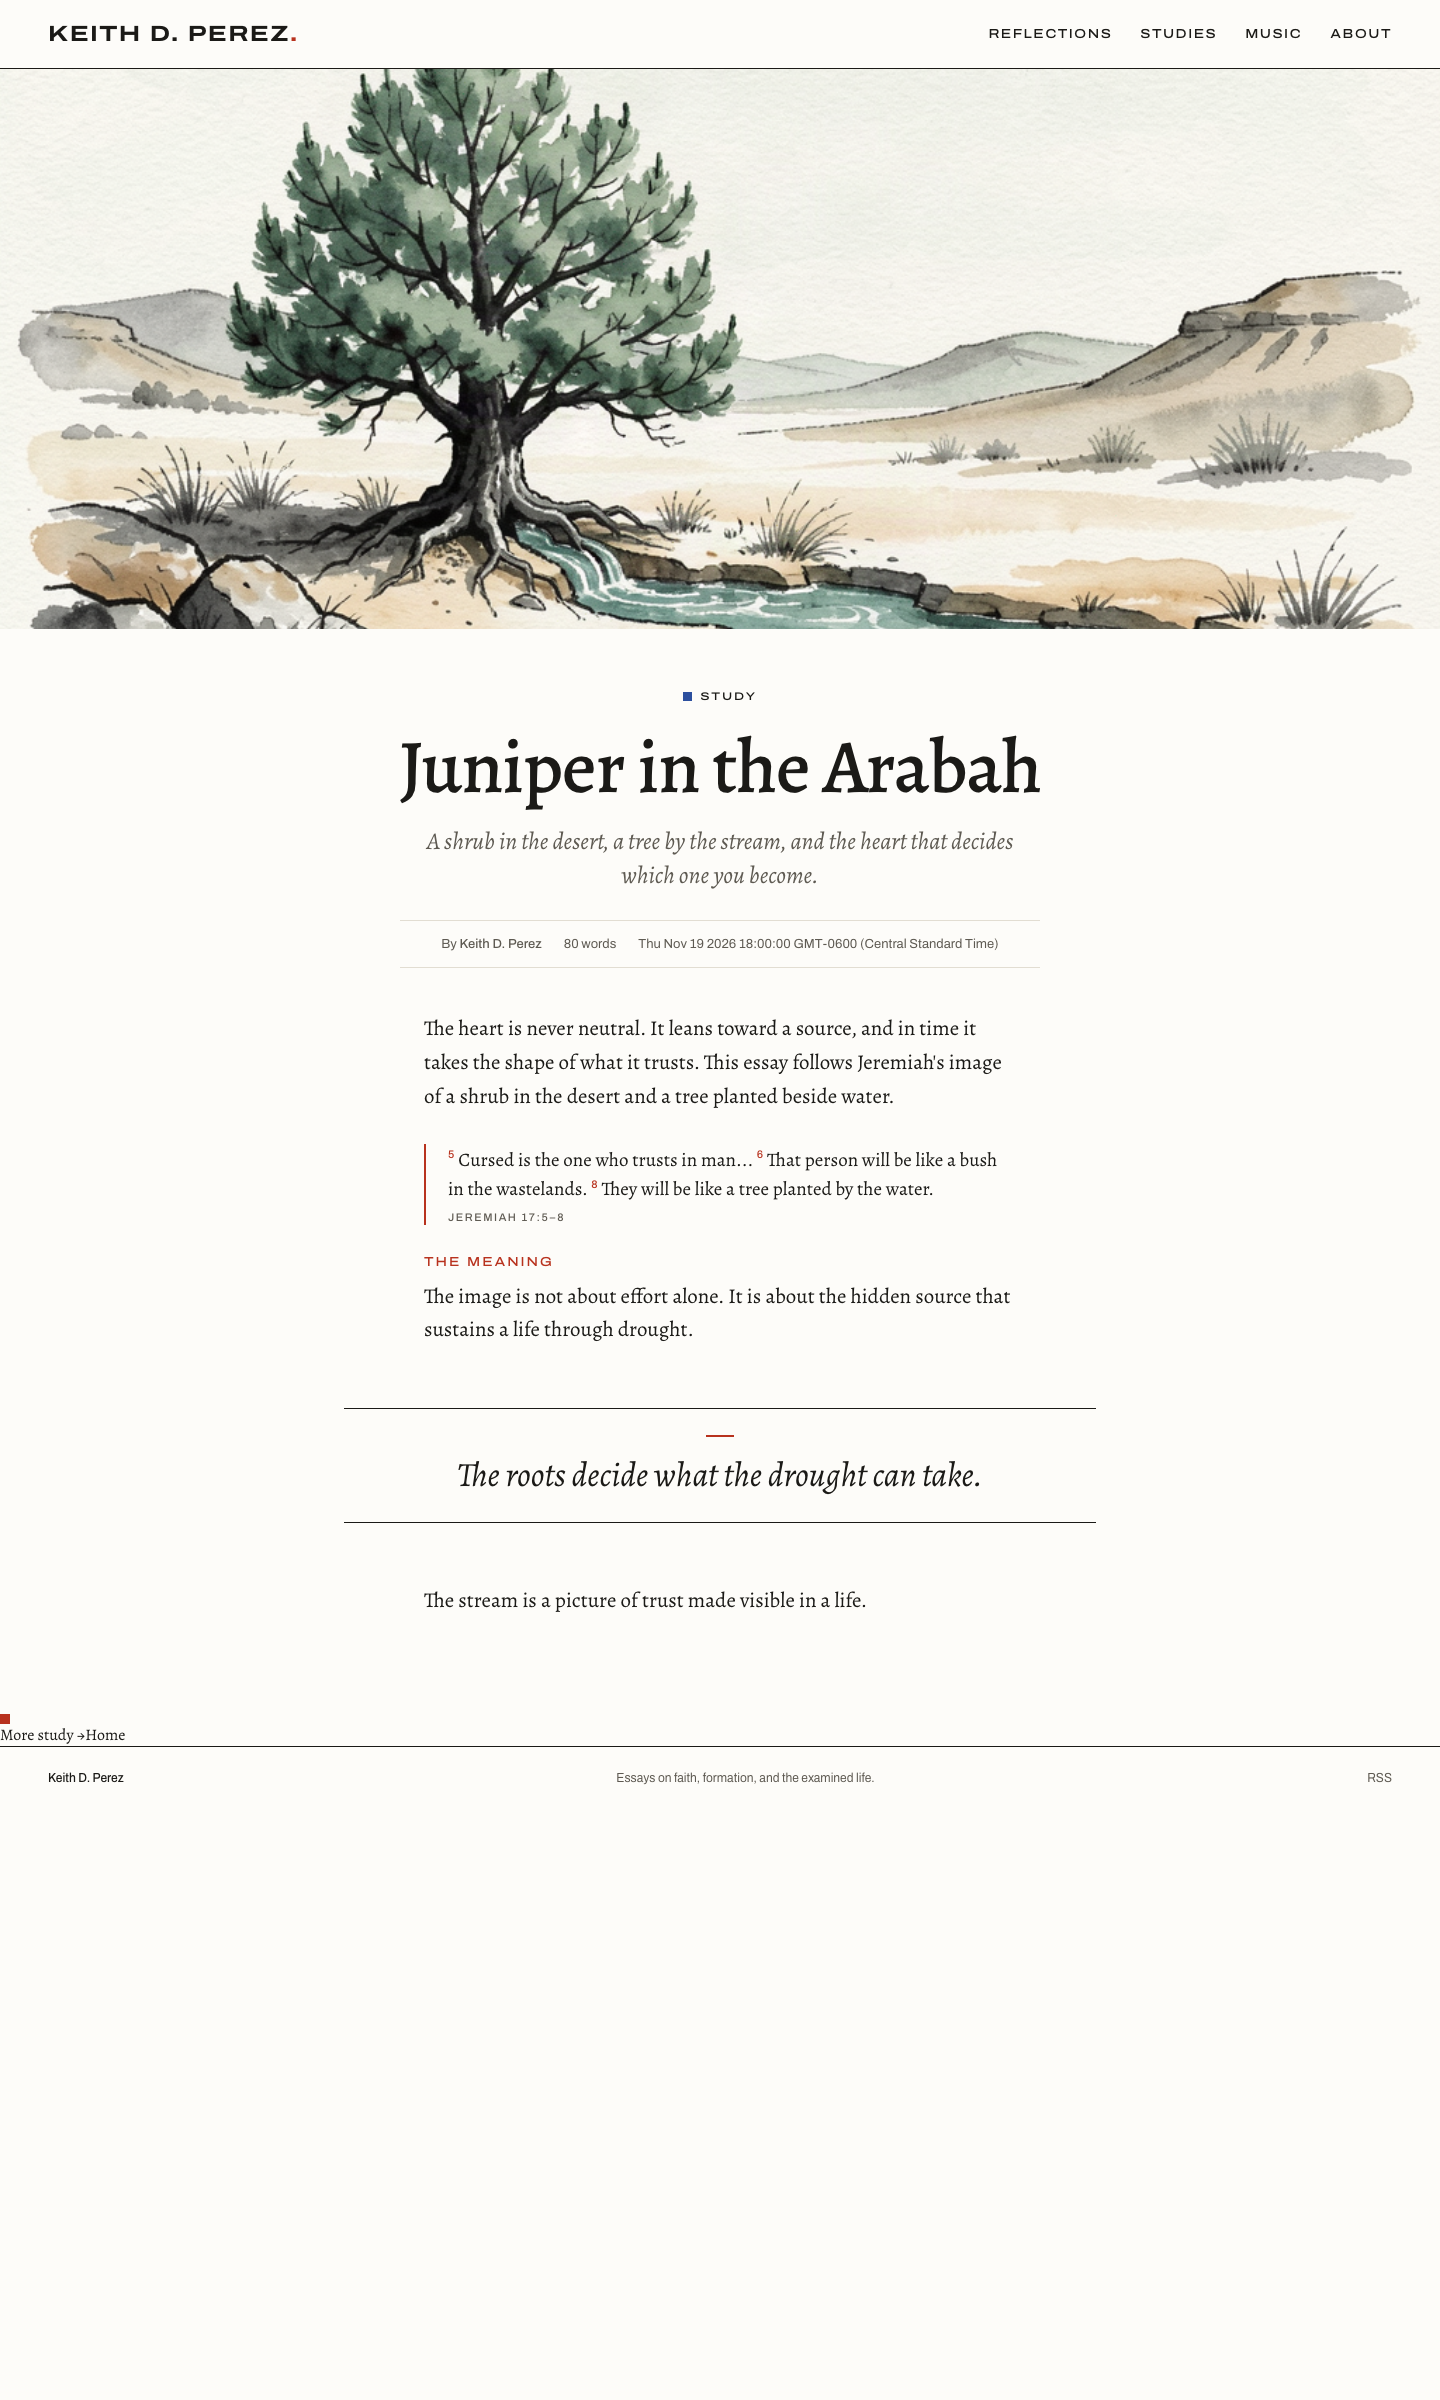
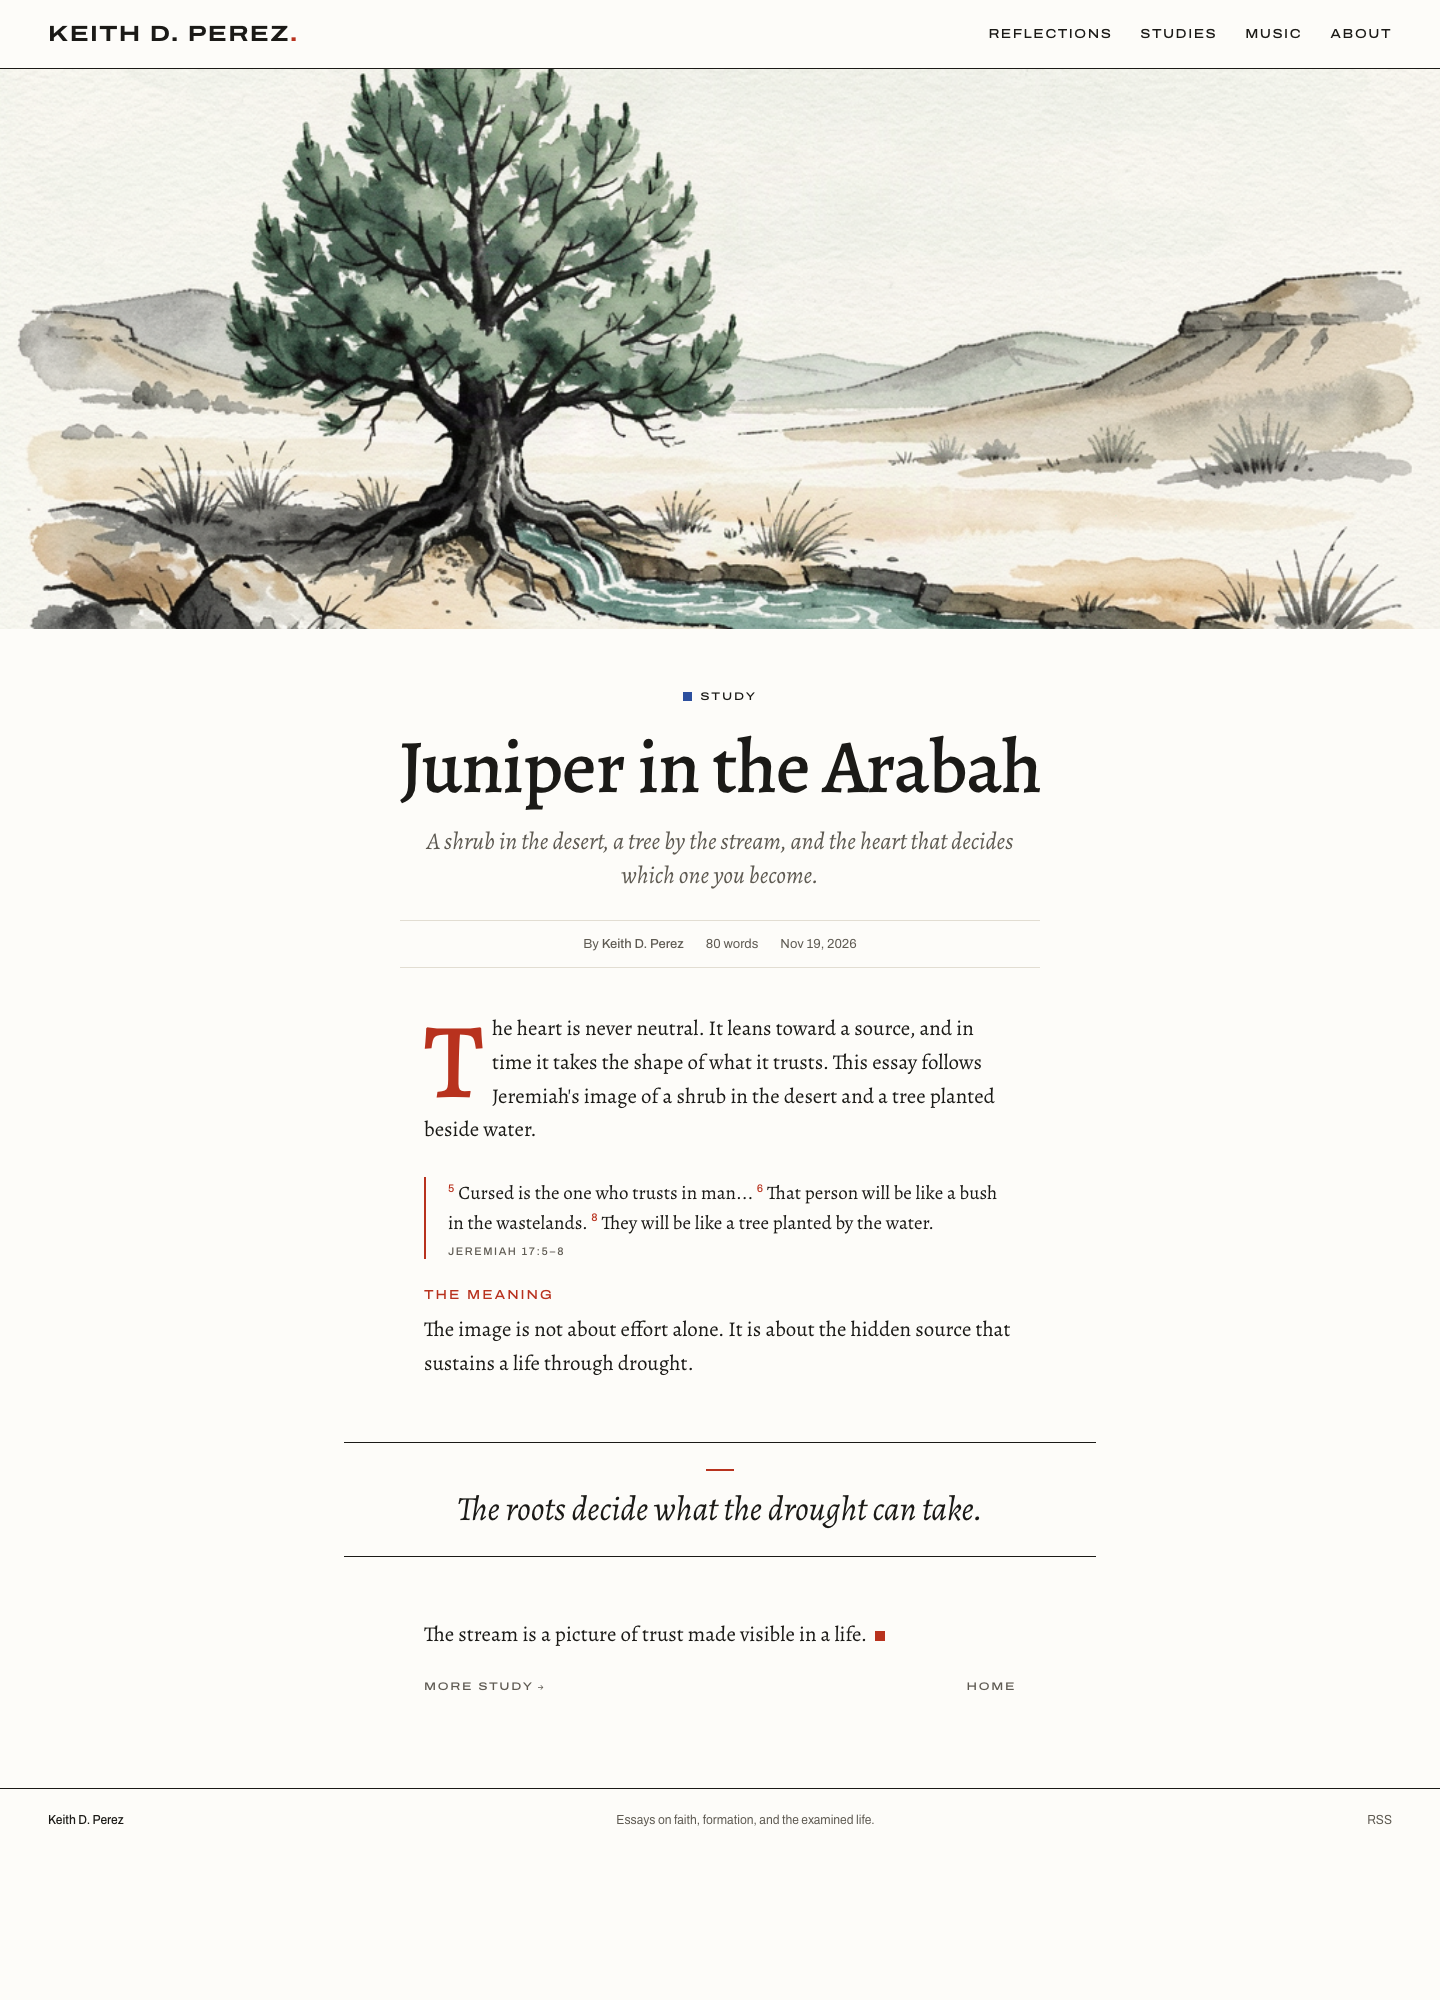
Polish: dates, drop cap, essay ending, cover titles, mobile grid

diff --git a/src/lib/content.js b/src/lib/content.js
@@ -28,6 +28,18 @@ function slugify(value) {
 }
 function sourceKey(file) { return path.relative(root, file).replace(/\\/g, '/').replace(/\.md$/i, '').toLowerCase(); }
 function titleFor(data, file) { return String(data.title || path.basename(file, '.md')).replace(/\s+/g, ' ').trim(); }
+function formatDate(value) {
+  if (!value) return '';
+  let date;
+  if (typeof value === 'string' && /^\d{4}-\d{2}-\d{2}$/.test(value)) {
+    const [year, month, day] = value.split('-').map(Number);
+    date = new Date(Date.UTC(year, month - 1, day, 12));
+  } else {
+    date = value instanceof Date ? value : new Date(value);
+  }
+  if (Number.isNaN(date.getTime())) return String(value);
+  return new Intl.DateTimeFormat('en-US', { month: 'short', day: 'numeric', year: 'numeric', timeZone: 'America/Chicago' }).format(date);
+}
 export function getPosts() {
   if (!fs.existsSync(root)) return [];
   const all = list(root).map((file) => { const parsed = matter(fs.readFileSync(file, 'utf8')); return { file, data: parsed.data, body: parsed.content, sourceKey: sourceKey(file), title: titleFor(parsed.data, file) }; });
@@ -59,9 +71,10 @@ export function getPosts() {
     const bannerFile = bannerCandidates.find((candidate) => candidate.startsWith(root + path.sep) && fs.existsSync(candidate) && fs.statSync(candidate).isFile());
     const banner = bannerFile ? `/media/${encodeURIComponent(path.relative(root, bannerFile)).replace(/%2F/g, '/')}` : null;
     const date = post.data.date || post.data.created || post.data.published || '';
+    const formattedDate = formatDate(date);
     const html = render(post.body, index, post.file, root);
     const plain = post.body.replace(/```[\s\S]*?```/g, '').replace(/[#>*_`\[\]]/g, ' ').replace(/\s+/g, ' ').trim();
-    return { ...post, category, banner, date, html, deck: post.data.description || post.data.subtitle || plain.slice(0, 160), words: plain ? plain.split(/\s+/).length : 0 };
+    return { ...post, category, banner, date, formattedDate, html, deck: post.data.description || post.data.subtitle || plain.slice(0, 160), words: plain ? plain.split(/\s+/).length : 0 };
   }).sort((a, b) => String(b.date).localeCompare(String(a.date)));
 }
 function render(source, index, currentFile, contentRoot) {
@@ -82,6 +95,11 @@ function render(source, index, currentFile, contentRoot) {
     const filePath = path.resolve(path.dirname(currentFile || contentRoot), sourcePath);
     return fs.existsSync(filePath) ? `![${alt}](/media/${encodeURIComponent(path.relative(contentRoot, filePath)).replace(/%2F/g, '/')})` : whole;
   });
-  return marked.parse(text);
+  let html = marked.parse(text);
+  const firstParagraph = html.indexOf('<p>');
+  if (firstParagraph !== -1) html = `${html.slice(0, firstParagraph)}${html.slice(firstParagraph).replace('<p>', '<p class="first">')}`;
+  const lastParagraph = html.lastIndexOf('</p>');
+  if (lastParagraph !== -1) html = `${html.slice(0, lastParagraph)}<span class="end" aria-label="End of essay"></span>${html.slice(lastParagraph)}`;
+  return html;
 }
 export function publishablePaths() { return getPosts().map(({ file, slug, title }) => ({ file, slug, title })); }
